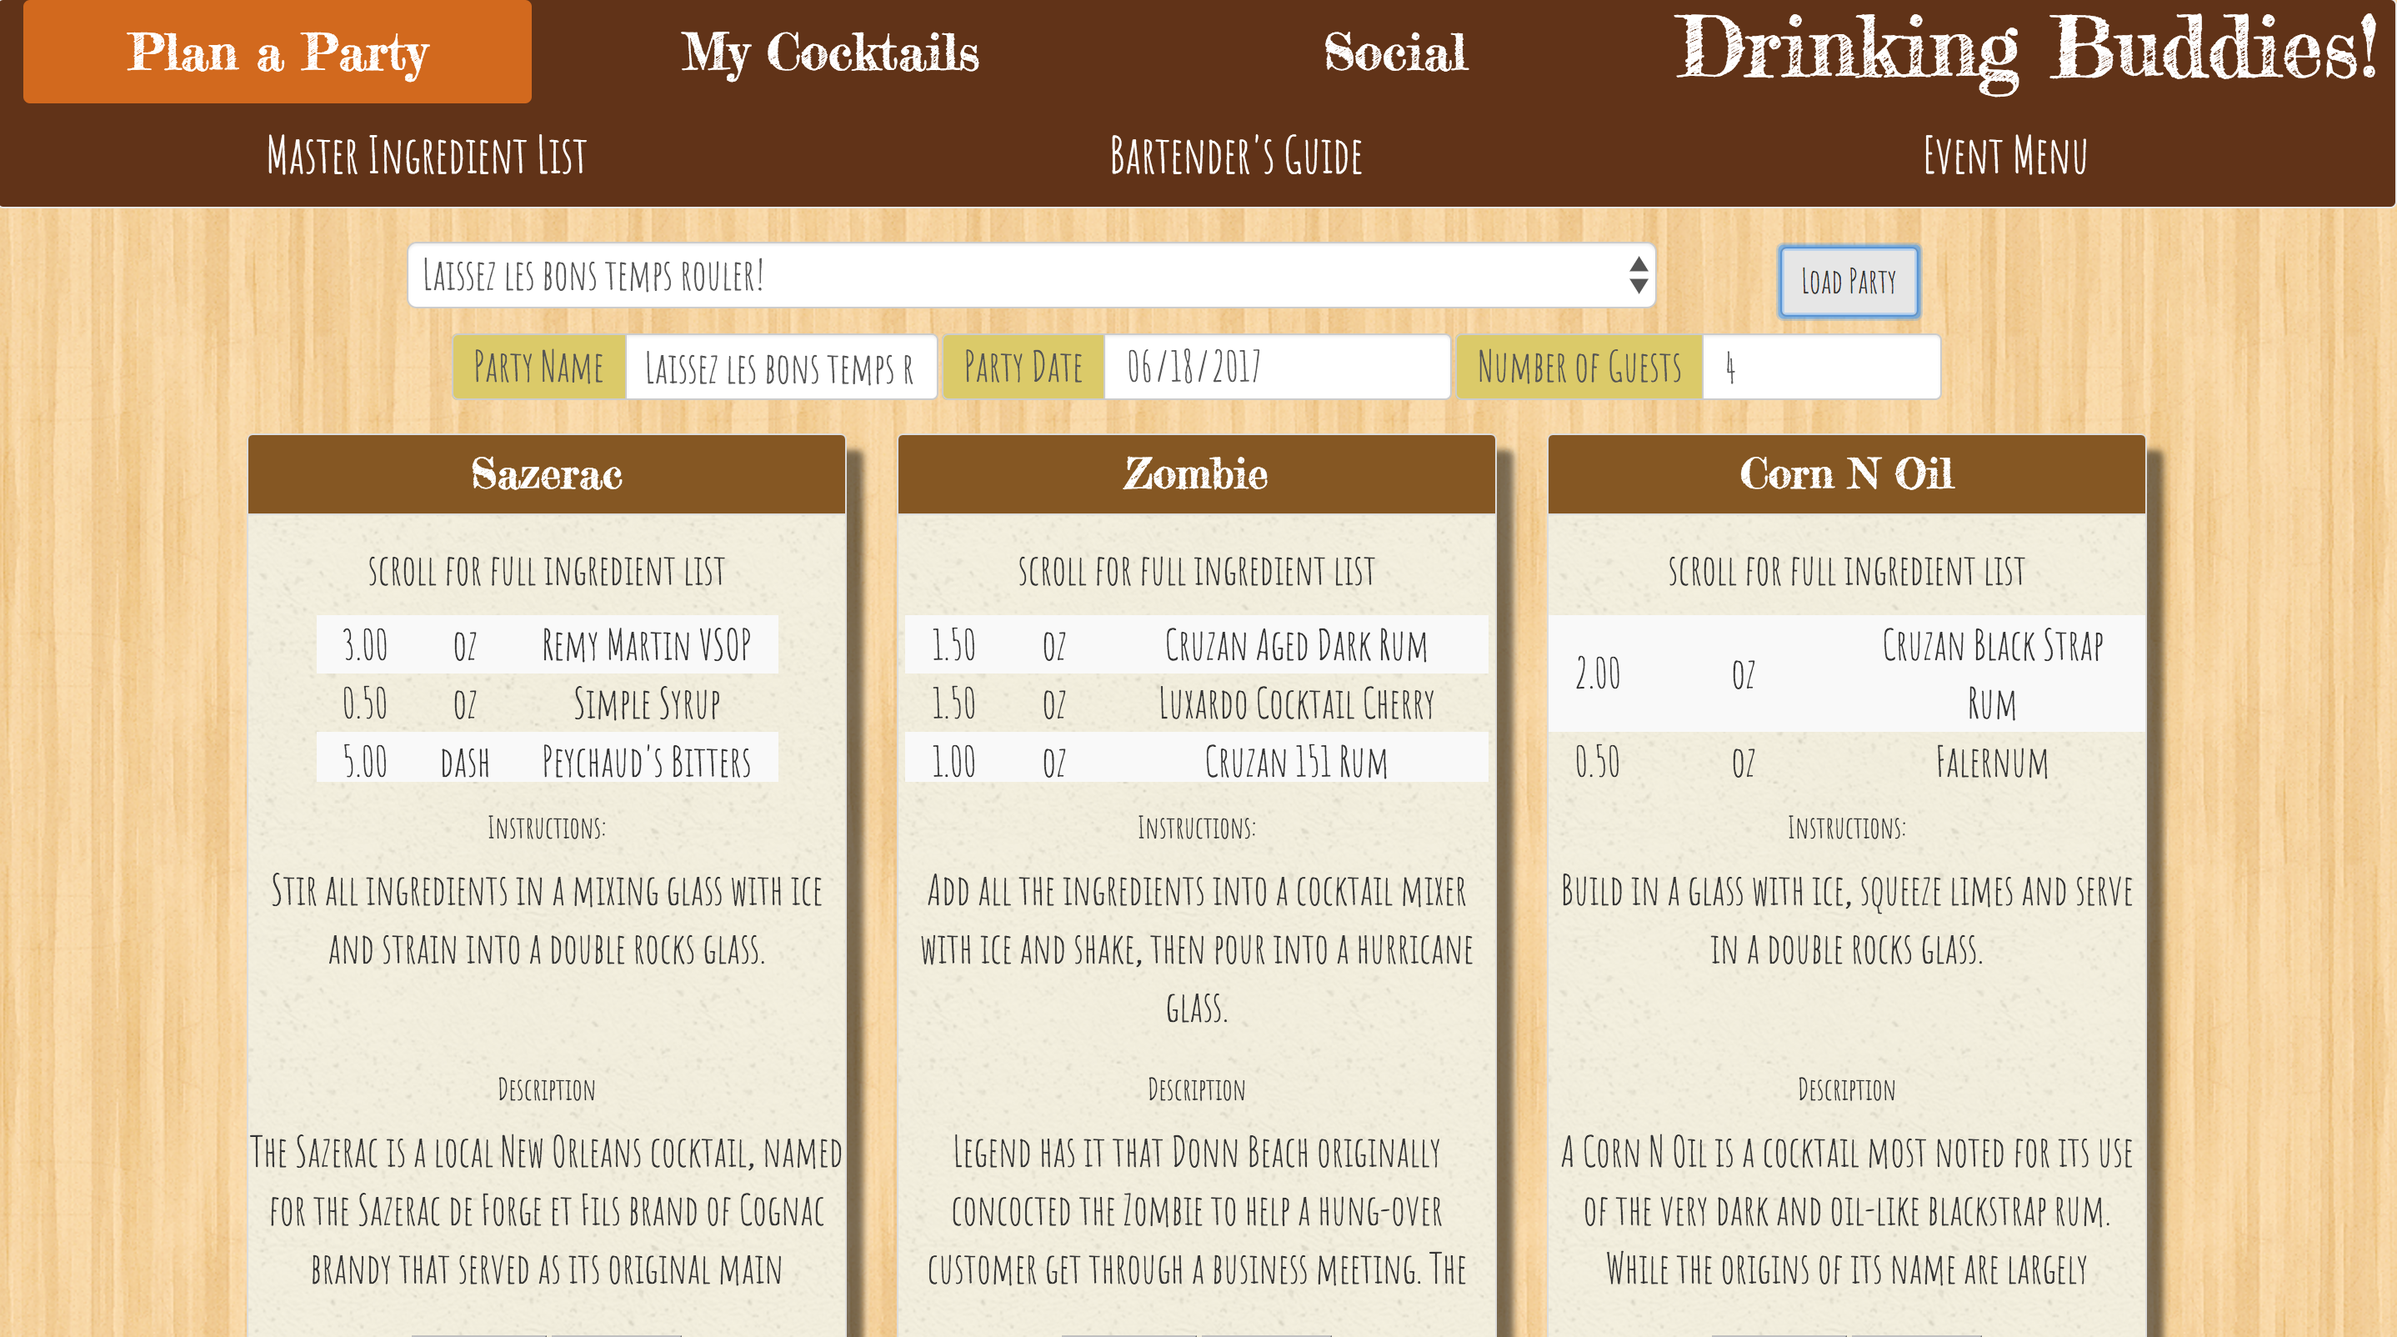
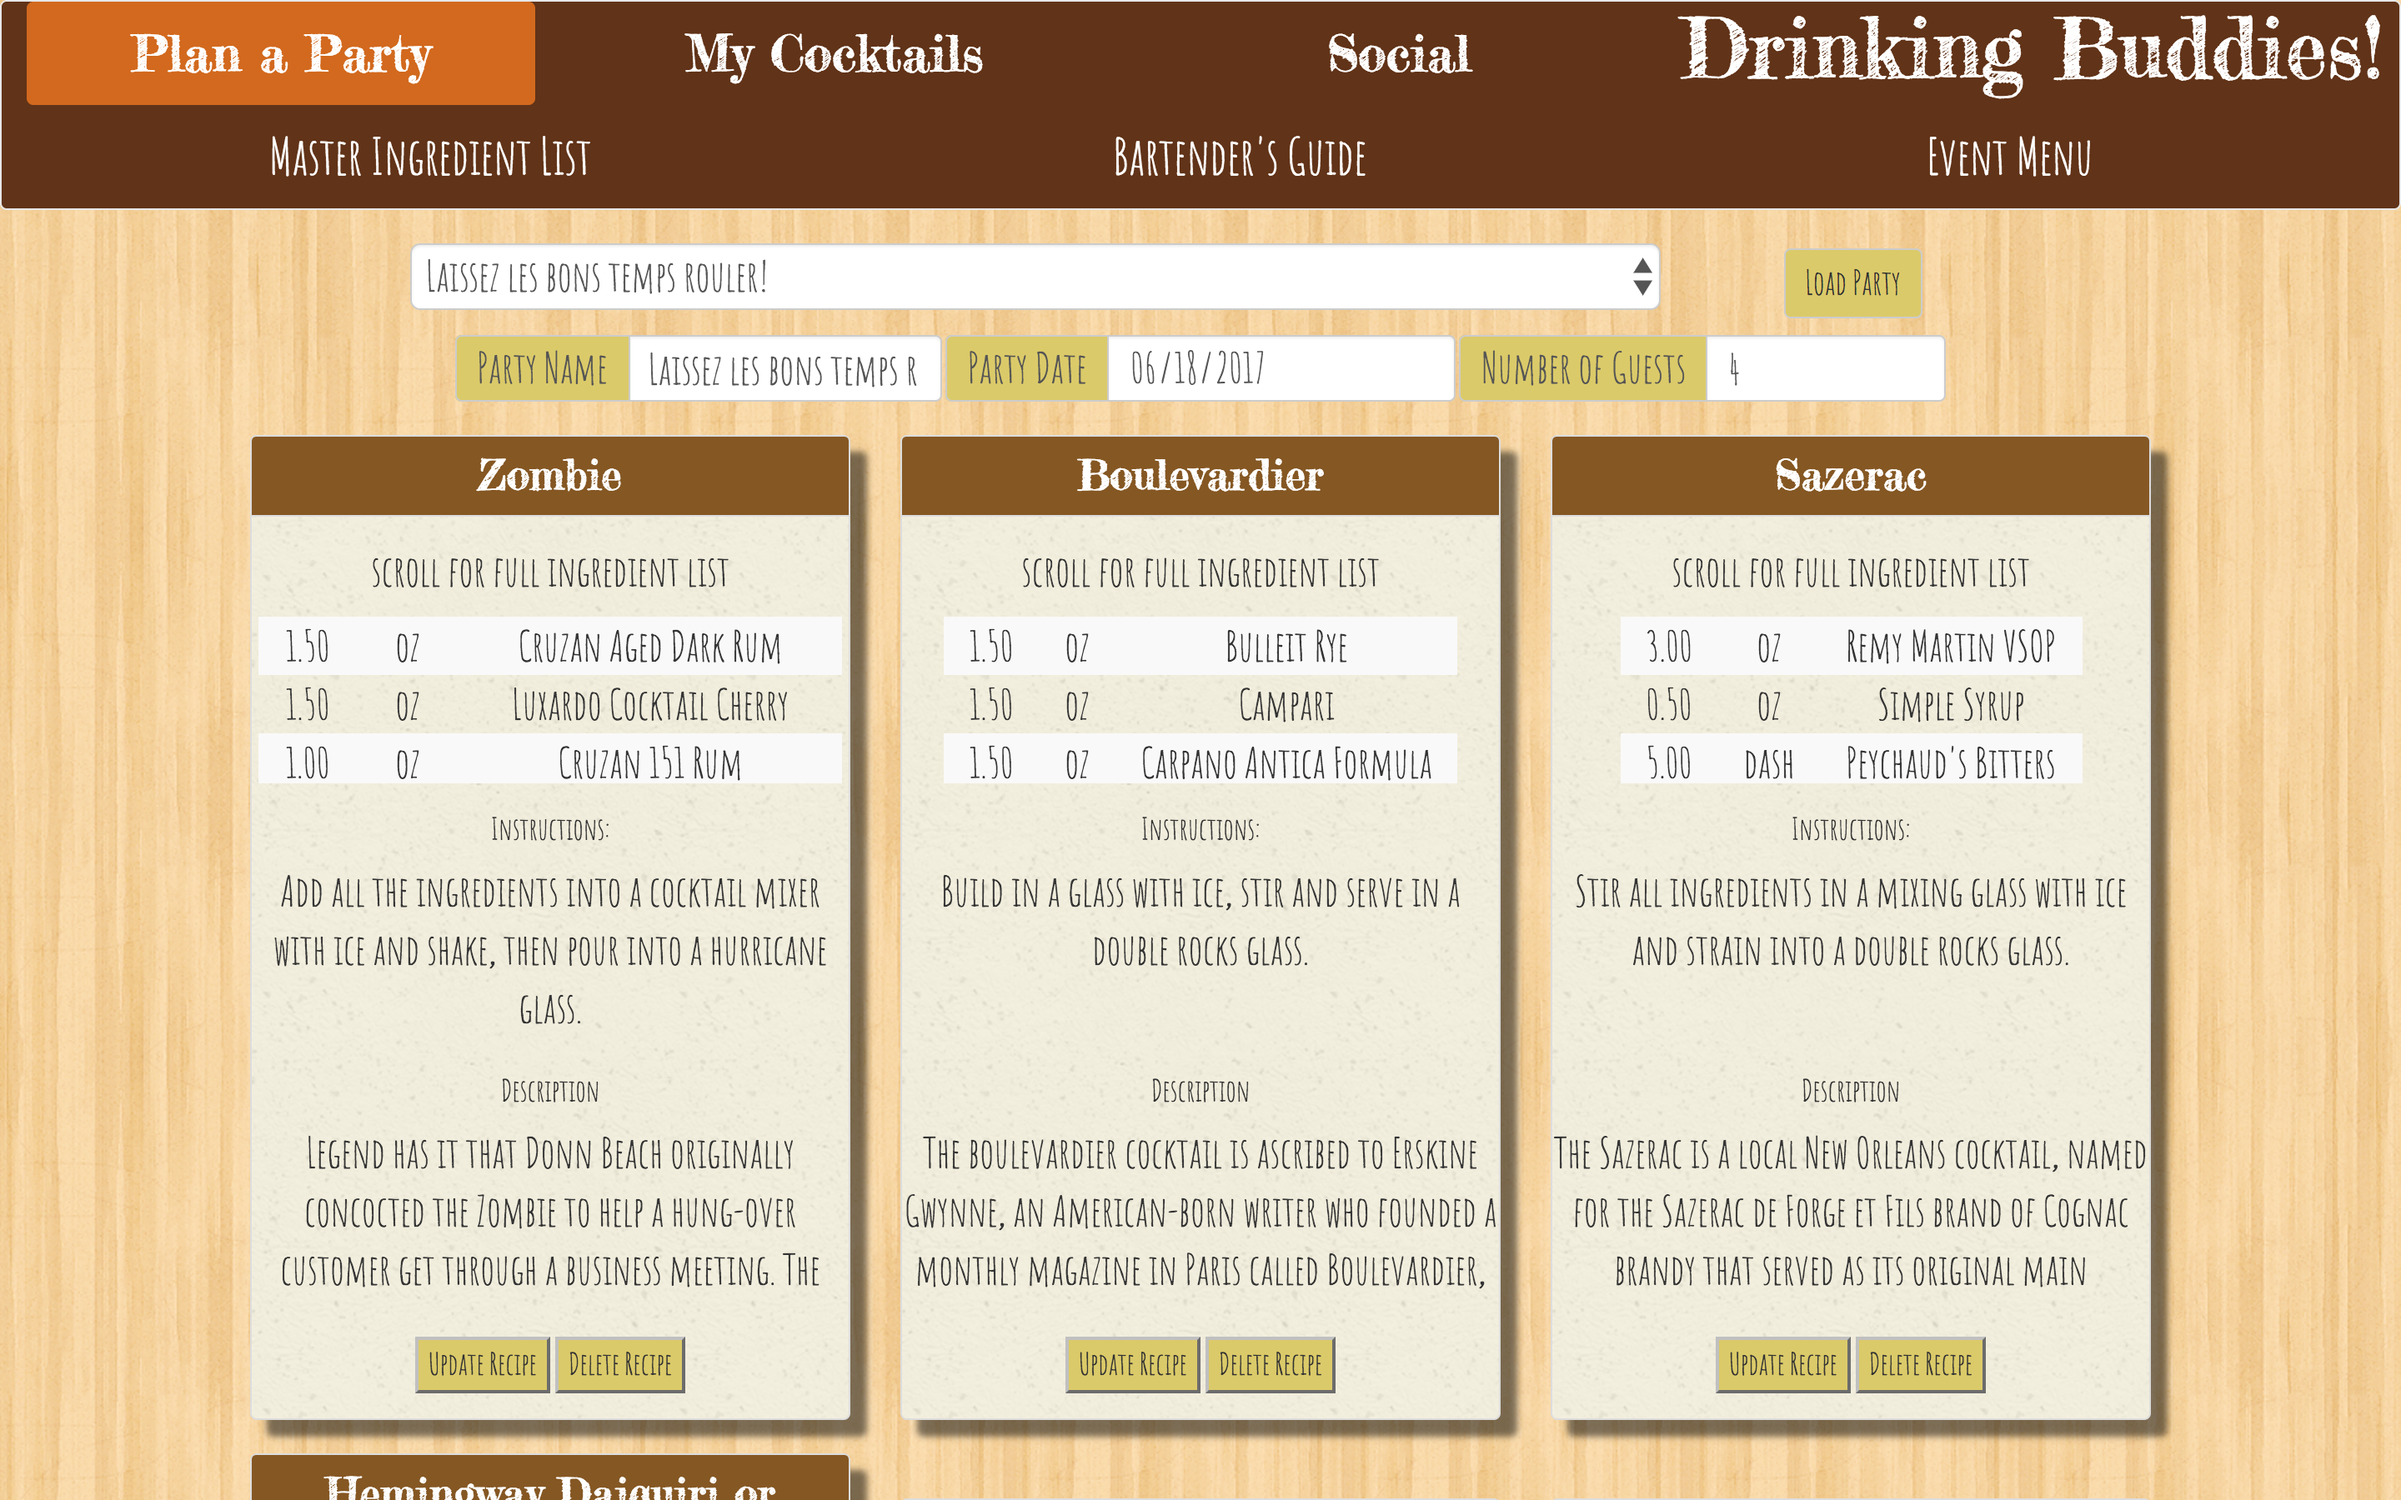
finish walkthrough addition to README

diff --git a/README.md b/README.md
@@ -31,7 +31,7 @@ From this page, users can find and connect with other registered users, querying
 To manage interaction with the cocktail recipe database, users can inspect their collections of recipes known as 'menus' via the My Cocktails tab; the default page for this tab is My Menus providing an overview of created menus and the option to create a new menu:
 ![D-B_create_menu](screenshots/5-create_menu.png)
 
-Clicking Create initiates a new database table and redirects the user to the Recipes page in the My Cocktails tab...
+Clicking `Create` initiates a new database table and redirects the user to the Recipes page in the My Cocktails tab...
 ![D-B_menu_created](screenshots/6-menu_created.png)
 
 Where recipes can be browsed (the default HTTP method on the page is GET all) - or searched by text...
@@ -46,8 +46,26 @@ Confirming the addition (or the presence of that recipe on the menu already):
 Accessing the suite of party-planning tools is accomplished via the Plan a Party family tab. Any menu may be loaded via the drop-down menu on the Plan a Party landing page - and attendee details checked:
 ![D-B_load_party](screenshots/10-load_party.png)
 
-The Master List provides an overview of the total ingredients required for the party, doing the algebra required to ensure adequate supplies are on-hand:
+The Master List provides an overview of the total ingredients required for the party, doing the algebra required to ensure adequate supplies are on-hand,
 ![D-B_master_list](screenshots/11-master_list.png)
+
+While the Bartender's Guide provides a simple abstract of the recipe,
+![D-B_bartender_guide](screenshots/12-bartender_guide.png)
+
+And, the Party Menu details the libations for guests:
+![D-B_party_menu](screenshots/13-party_menu.png)
+
+However, should the database fall short of supplying the specific cocktail a user desires, the user can create a new recipe by clicking the `Add New` button at the bottom of the page...
+![D-B_add_recipe](screenshots/14-add_recipe.png)
+
+Which toggles open the create recipe dialog box:
+![D-B_create_recipe](screenshots/15-create_recipe.png)
+
+Once the recipe is complete, `Update Recipe` adds the cocktail to storage...
+![D-B_save_recipe](screenshots/16-save_recipe.png)
+
+And, adds it to the party menu:
+![D-B_recipe_saved_added](screenshots/17-recipe_saved_added.png)
 
 ## Minimum Viable Product goals
 1. a RESTful server with routes for user authorization, and database CRUD
